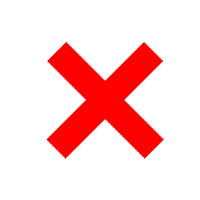
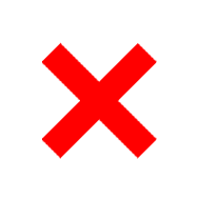
some ploishes

Changed region(s): [[0.21, 0.21, 0.84, 0.81]]

diff --git a/Assets/Scripts/SightBoard.cs b/Assets/Scripts/SightBoard.cs
@@ -30,6 +30,8 @@ public class SightBoard : MonoBehaviour
 		get{return _hintsCount;}
 	}
 
+	[SerializeField] GameObject _circleObj = null;
+
 	[SerializeField] GameObject _perventTouch = null;
 
 	[SerializeField] Button _hintButton = null;
@@ -48,6 +50,7 @@ public class SightBoard : MonoBehaviour
 	List<GameObject> _commonPics = new List<GameObject>();
 
 	[SerializeField] Image _succeedSign = null;
+	[SerializeField] RectTransform _failSignTr = null;
 
 	[SerializeField] GameObject _failPanelObj = null;
 	[SerializeField] GameObject _failedAlert = null;
@@ -160,6 +163,10 @@ public class SightBoard : MonoBehaviour
 		});
 
 		GenerateAlbume ();
+
+		var pic = _topAlbume.GetChild (0);
+		_circleObj.GetComponent<RectTransform> ().sizeDelta =
+			new Vector2 (pic.GetComponent<RectTransform> ().rect.width, pic.GetComponent<RectTransform> ().rect.height);
 	}
 
 
@@ -179,11 +186,9 @@ public class SightBoard : MonoBehaviour
 			Destroy (obj);
 		_guideCirclesist.Clear ();
 
-		var circleObj = transform.Find ("circle").gameObject;
-		circleObj.GetComponent<RectTransform> ().sizeDelta = new Vector2 (_commonPics [0].GetComponent<RectTransform> ().rect.width, _commonPics [0].GetComponent<RectTransform> ().rect.height);
 		foreach (var obj in _commonPics)
 		{
-			var circle = Instantiate (circleObj, obj.transform.position, circleObj.transform.rotation, obj.transform);
+			var circle = Instantiate (_circleObj, obj.transform.position, _circleObj.transform.rotation, obj.transform);
 			var rectTr = circle.GetComponent<RectTransform> ();
 			rectTr.Rotate (0, 0, Rand (1, 360));
 			circle.GetComponent<Image> ().color = isTut ? Color.green : Color.black;
@@ -348,14 +353,14 @@ public class SightBoard : MonoBehaviour
 			return;
 		}
 
-		FinishGame (_commonPics.Contains (obj) ? 0 : 1);
+		FinishGame (_commonPics.Contains (obj) ? 0 : 1, obj.GetComponent<RectTransform> ());
 	}
 
 	/// <summary>
 	/// cond == 0 is succeed, 1 is wrong select, 2 is time out
 	/// </summary>
 	/// <param name="cond">Cond.</param>
-	void FinishGame(int cond)
+	void FinishGame(int cond, RectTransform cellTr = null)
 	{
 		_hitTimer = 0;
 
@@ -371,11 +376,20 @@ public class SightBoard : MonoBehaviour
 
 			if (_tutorialFinished)
 				GamePlayerPrefs.Instance.DoneTutorialSight ();
+
+			//Right selection sound
 		}
 		else
 		{
+			var circleObj = transform.Find ("circle").gameObject;
+			_failSignTr.sizeDelta = new Vector2 (circleObj.GetComponent<RectTransform> ().rect.width, circleObj.GetComponent<RectTransform> ().rect.height);
+			Debug.Log (_failSignTr.sizeDelta.ToString ());
+			_failSignTr.SetParent (cellTr);
+			_failSignTr.anchoredPosition = Vector2.zero;
 			_perventTouch.SetActive (true);
 			StartCoroutine (ShowFailedPanel (cond == 2));
+
+			//Wrong selection sound
 		}
 	}
 

diff --git a/Assets/Scripts/MemoryBoard.cs b/Assets/Scripts/MemoryBoard.cs
@@ -12,6 +12,9 @@ public class MemoryBoard : MonoBehaviour {
 		get{return _instance;}
 	}
 
+	[SerializeField] Image _rightSel = null;
+	[SerializeField] Image _wrongSel = null;
+
 	[SerializeField] Sprite[] _allSprites = null;
 
 	[SerializeField] RectTransform _gridContent = null;
@@ -87,6 +90,9 @@ public class MemoryBoard : MonoBehaviour {
 
 	// Use this for initialization
 	void Start () {
+
+		_wrongSel.DOFade (0, 0);
+		_rightSel.DOFade (0, 0);
 
 		_tutorialFinished = GamePlayerPrefs.Instance.IsTutorialDoneMemory ();
 
@@ -374,6 +380,11 @@ public class MemoryBoard : MonoBehaviour {
 
 				if (_cellsNumsDic.Count == 0)
 					StartCoroutine (FinishGame ());
+
+				_rightSel.DOKill ();
+				_rightSel.DOFade (1, 0);
+				_rightSel.DOFade (0, .3f).SetDelay (.6f);
+
 				//right sound
 			}
 			else
@@ -381,6 +392,9 @@ public class MemoryBoard : MonoBehaviour {
 				_lastCellObj = cellObj;
 				StartCoroutine (HideWrongCells ());
 				_wrongCount++;
+				_wrongSel.DOKill ();
+				_wrongSel.DOFade (1, 0);
+				_wrongSel.DOFade (0, .3f).SetDelay (.4f);
 				//wrog sound
 				//hide sound with delay
 			}
